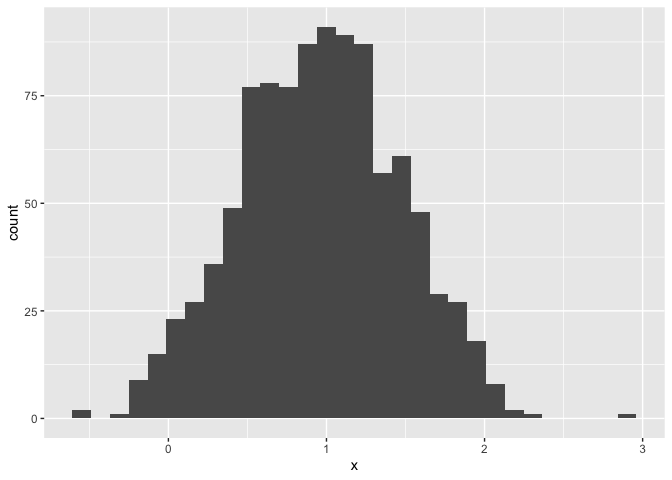
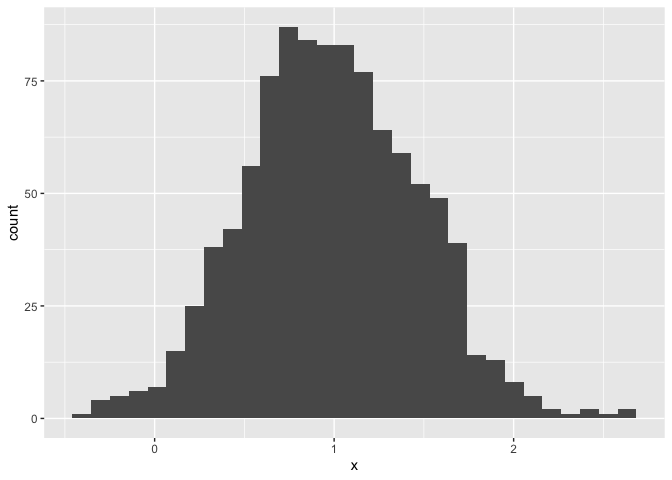
Updates to my RMD

diff --git a/20260915_first_markdown.md b/20260915_first_markdown.md
@@ -1,6 +1,6 @@
-A really not so simple document
+A simple document
 ================
-Jeff Goldsmith
+Anny Rui
 2026-09-17
 
 I’m an R Markdown document!
@@ -26,7 +26,7 @@ length(samp)
 
 # Section 2
 
-I can take the mean of the sample, too! The mean is 0.1118795.
+I can take the mean of the sample, too! The mean is 0.0451406.
 
 # Section 3
 
